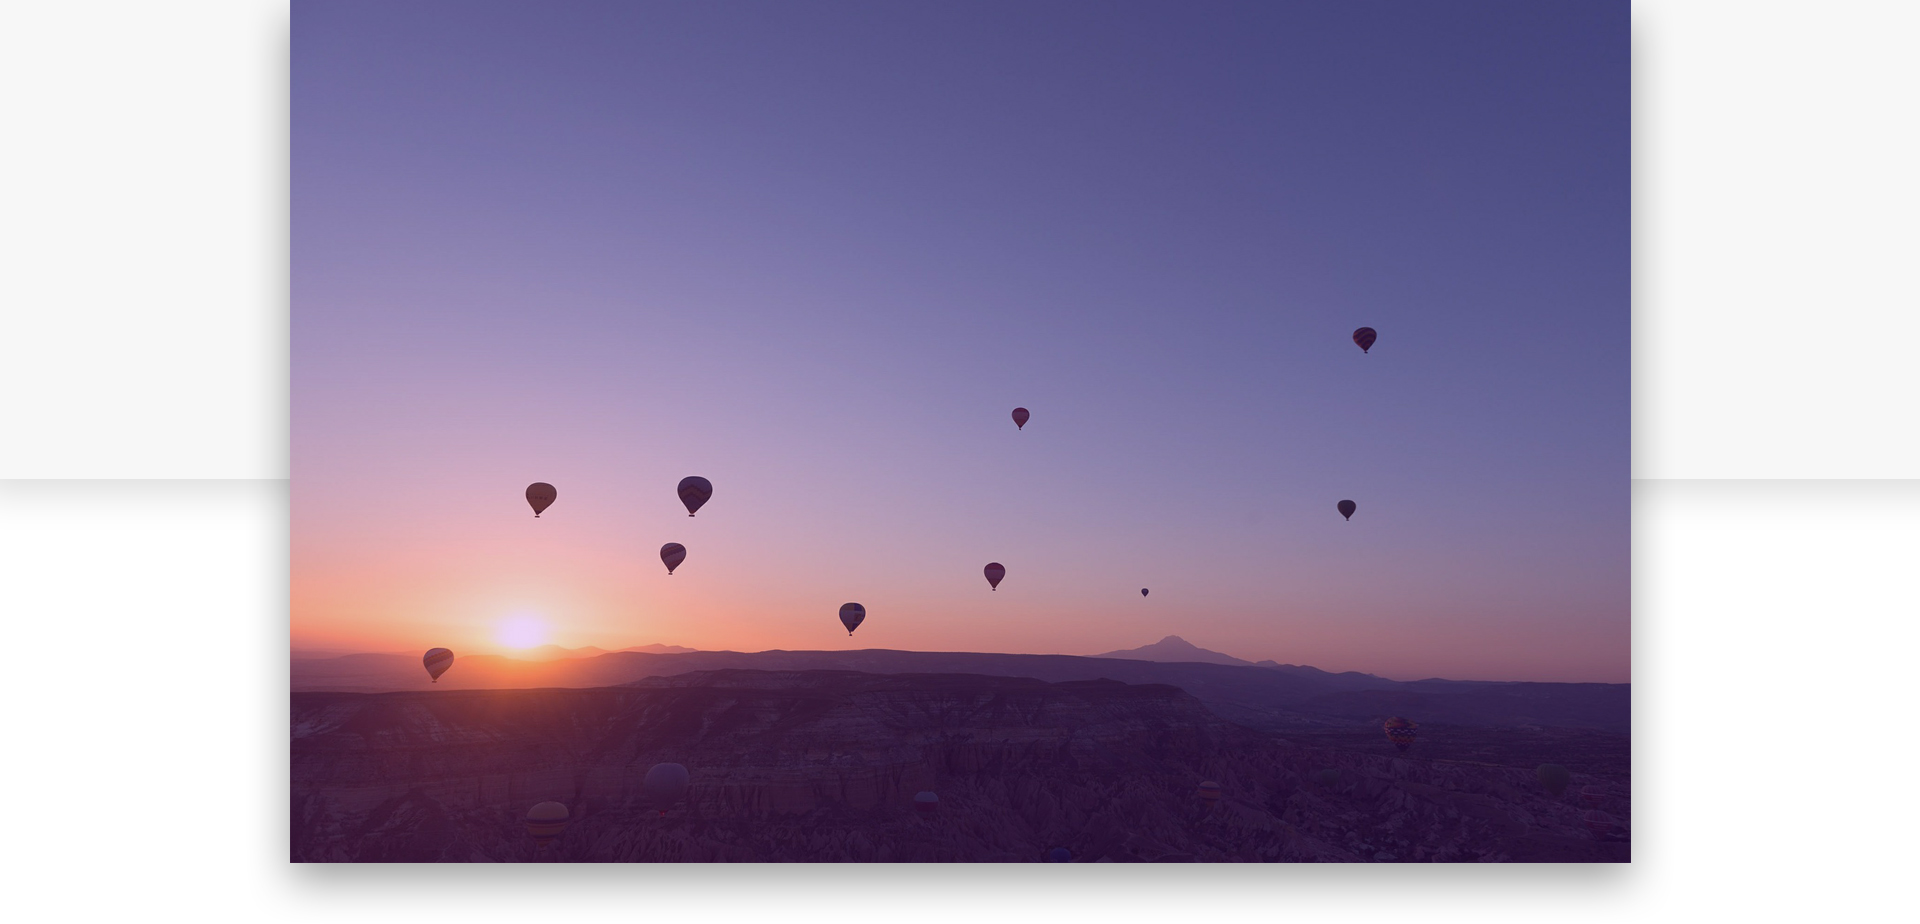
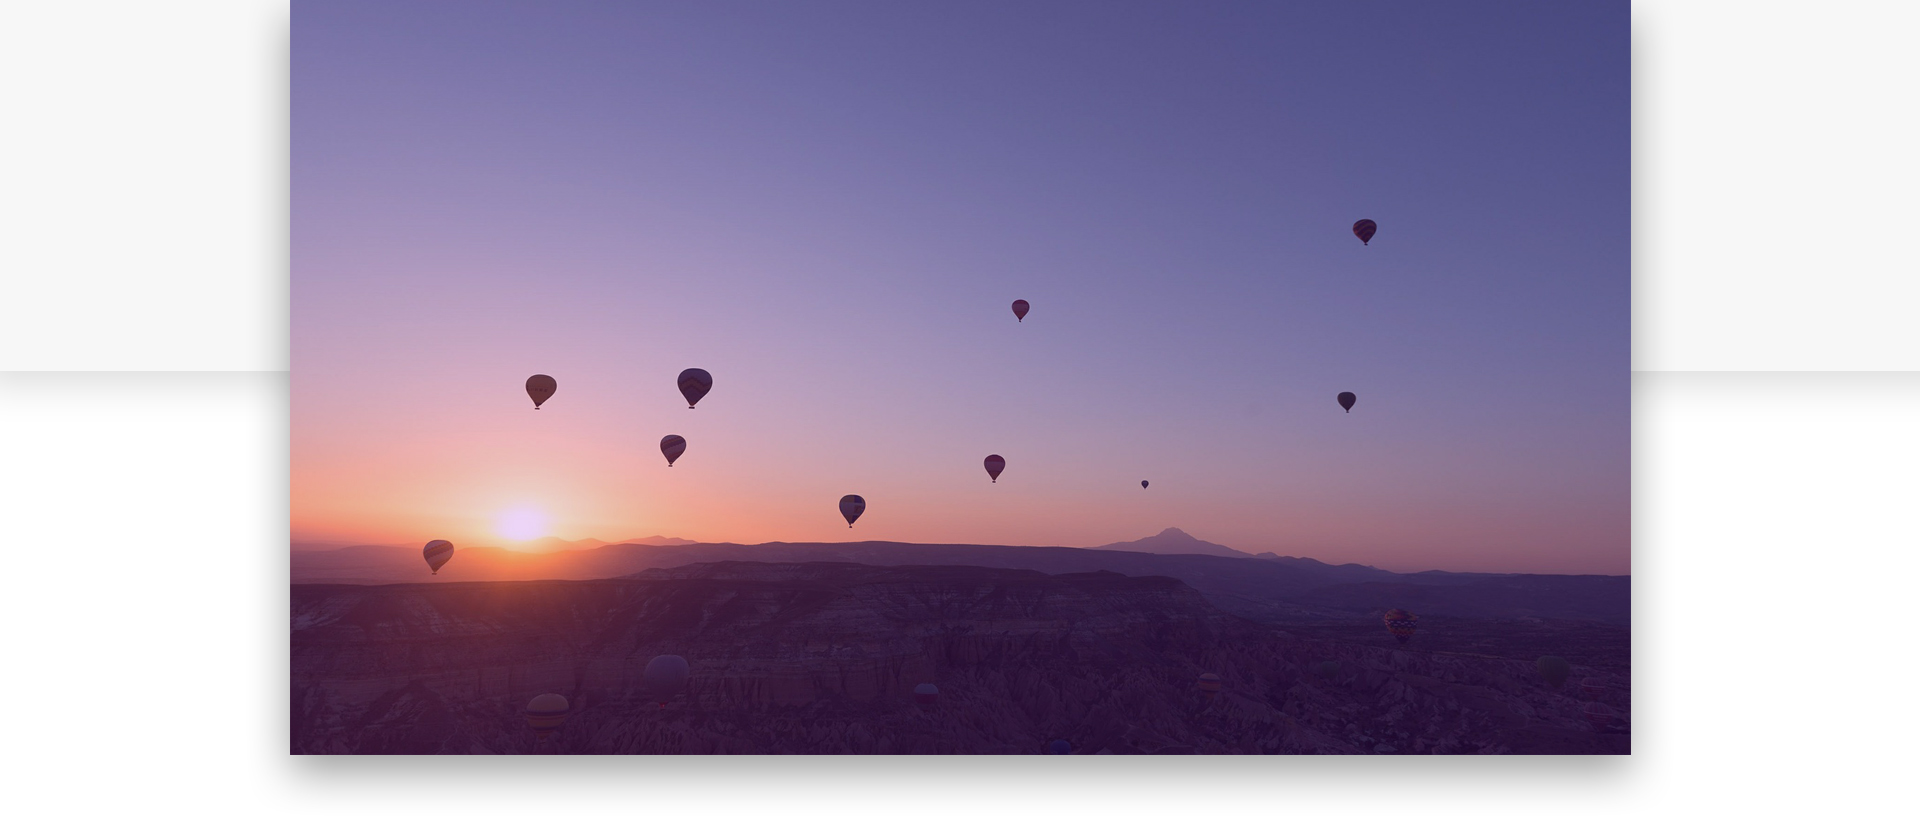
Some Changes

diff --git a/Site/app/components/LK/baners.html b/Site/app/components/LK/baners.html
@@ -21,8 +21,14 @@
                                 </div>
                             </div>
                             <div class="row">
-                                <div class="col-md-12" style="padding:2vh; margin-top: 3vh">
-                                    <span style="color: black; font-size: 2vh;">Очень важный текст Очень важный текст Очень важный текст Очень важный текст Очень важный текст Очень важный текст Очень важный текст Очень важный текст Очень важный текст Очень важный текст Очень важный текст Очень важный текст Очень важный текст Очень важный текст</span>
+                                <div class="col-md-12" style="padding: 2vh; margin-top: 3vh">
+                                    <div class="pull-left">
+                                        <img style="height: 3vh;width: 3vh" src="../../../assets/img/lp.baner/Левый уголок.png" />
+                                    </div>
+                                    <span style="color:black; font-size: 2vh;">Очень важный текст Очень важный текст Очень важный текст Очень важный текст Очень важный текст Очень важный текст Очень важный текст Очень важный текст Очень важный текст Очень важный текст Очень важный текст Очень важный текст Очень важный текст Очень важный текст</span>
+                                    <div class="pull-right">
+                                        <img style="height: 3vh;width: 3vh" src="../../../assets/img/lp.baner/Правый уголок.png" />
+                                    </div>
                                 </div>
                             </div>
                         </div>
@@ -41,8 +47,14 @@
                                 </div>
                             </div>
                             <div class="row">
-                                <div class="col-md-12" style="padding:2vh; margin-top: 3vh">
-                                    <span style="color: black; font-size: 2vh;">Очень важный текст Очень важный текст Очень важный текст Очень важный текст Очень важный текст Очень важный текст Очень важный текст Очень важный текст Очень важный текст Очень важный текст Очень важный текст Очень важный текст Очень важный текст Очень важный текст</span>
+                                <div class="col-md-12" style="padding: 2vh; margin-top: 3vh">
+                                    <div class="pull-left">
+                                        <img style="height: 3vh;width: 3vh" src="../../../assets/img/lp.baner/Левый уголок.png" />
+                                    </div>
+                                        <span style="color:black; font-size: 2vh;">Очень важный текст Очень важный текст Очень важный текст Очень важный текст Очень важный текст Очень важный текст Очень важный текст Очень важный текст Очень важный текст Очень важный текст Очень важный текст Очень важный текст Очень важный текст Очень важный текст</span>
+                                    <div class="pull-right">
+                                        <img style="height: 3vh;width: 3vh" src="../../../assets/img/lp.baner/Правый уголок.png"/>
+                                    </div>
                                 </div>
                             </div>
                         </div>
@@ -63,8 +75,14 @@
                                 </div>
                             </div>
                             <div class="row">
-                                <div class="col-md-12" style="padding:2vh; margin-top: 3vh">
-                                    <span style="color: black; font-size: 2vh;">Очень важный текст Очень важный текст Очень важный текст Очень важный текст Очень важный текст Очень важный текст Очень важный текст Очень важный текст Очень важный текст Очень важный текст Очень важный текст Очень важный текст Очень важный текст Очень важный текст</span>
+                                <div class="col-md-12" style="padding: 2vh; margin-top: 3vh">
+                                    <div class="pull-left">
+                                        <img style="height: 3vh;width: 3vh" src="../../../assets/img/lp.baner/Левый уголок.png" />
+                                    </div>
+                                    <span style="color:black; font-size: 2vh;">Очень важный текст Очень важный текст Очень важный текст Очень важный текст Очень важный текст Очень важный текст Очень важный текст Очень важный текст Очень важный текст Очень важный текст Очень важный текст Очень важный текст Очень важный текст Очень важный текст</span>
+                                    <div class="pull-right">
+                                        <img style="height: 3vh;width: 3vh" src="../../../assets/img/lp.baner/Правый уголок.png" />
+                                    </div>
                                 </div>
                             </div>
                         </div>
@@ -83,8 +101,14 @@
                                 </div>
                             </div>
                             <div class="row">
-                                <div class="col-md-12" style="padding:2vh; margin-top: 3vh">
-                                    <span style="color: black; font-size: 2vh;">Очень важный текст Очень важный текст Очень важный текст Очень важный текст Очень важный текст Очень важный текст Очень важный текст Очень важный текст Очень важный текст Очень важный текст Очень важный текст Очень важный текст Очень важный текст Очень важный текст</span>
+                                <div class="col-md-12" style="padding: 2vh; margin-top: 3vh">
+                                    <div class="pull-left">
+                                        <img style="height: 3vh;width: 3vh" src="../../../assets/img/lp.baner/Левый уголок.png" />
+                                    </div>
+                                    <span style="color:black; font-size: 2vh;">Очень важный текст Очень важный текст Очень важный текст Очень важный текст Очень важный текст Очень важный текст Очень важный текст Очень важный текст Очень важный текст Очень важный текст Очень важный текст Очень важный текст Очень важный текст Очень важный текст</span>
+                                    <div class="pull-right">
+                                        <img style="height: 3vh;width: 3vh" src="../../../assets/img/lp.baner/Правый уголок.png" />
+                                    </div>
                                 </div>
                             </div>
                         </div>

diff --git a/Site/app/components/LP/footer.html b/Site/app/components/LP/footer.html
@@ -4,19 +4,19 @@
             <div>
                 <div class="col-md-3">
                     <br/>
-                    <img src="../../../assets/img/Qiwi.png"/>
+                    <img style="height: 5.5vh;width: 13vh" src="../../../assets/img/Qiwi.png"/>
                 </div>
                 <div class="col-md-3">
                     <br />
-                    <img src="../../../assets/img/Яндекс Money.png"/>
+                    <img style="height: 5.5vh;width: 13vh" src="../../../assets/img/Яндекс Money.png"/>
                 </div>
                 <div class="col-md-3">
                     <br />
-                    <img src="../../../assets/img/Payeer .png"/>
+                    <img style="margin-top: 1vh;height: 3vh;width: 10vh" src="../../../assets/img/Payeer .png"/>
                 </div>
                 <div class="col-md-3">
                     <br />
-                    <img src="../../../assets/img/Perfect money.png"/>
+                    <img style="margin-top: 1vh;height: 3vh;width: 13vh" src="../../../assets/img/Perfect money.png"/>
                 </div>
             </div>
         </div>

diff --git a/Site/app/components/LP/marketing.html b/Site/app/components/LP/marketing.html
@@ -1,8 +1,8 @@
 <header ng-include="'app/components/LP/nav.html'"></header>
-<div ng-include="'app/components/LP/log.reg.html'" style="background-image: url('../../../assets/img/Безимени-1.jpg'); background-size: 100%; height: 93vh; margin: 0; padding: 0;">
+<div ng-include="'app/components/LP/log.reg.html'" style="background-image: url('../../../assets/img/Безимени-1.jpg'); background-size: 100%; height: 84vh; margin: 0; padding: 0;">
 </div>
 <div class="col-md-12 text-center" style="background-color: white; font-weight: lighter; padding: 2vh 30vw 2vh 30vw;">
-    <p   style="font-size: 3vh;">
+    <p   style="font-size: 4vh;">
         <u style="border-bottom: 1px solid violet; text-decoration: none;">Маркетинг</u>
     </p>
     <span class="text-center" style="color: gray; font-size: 2vh">

diff --git a/Site/app/components/LP/help.html b/Site/app/components/LP/help.html
@@ -85,7 +85,7 @@
                 </li>
             </ul>
         </div>
-        <div class="col-md-5 text-left" style="background-image: url('../../../assets/img/lp.faq/Shablon (FAQ).jpg'); background-size: 100%; height: 60vh; margin: 0; padding: 13vh 3.25vw 10vh 3vw">
+        <div class="col-md-5 text-left" style="background-image: url('../../../assets/img/lp.faq/Shablon (FAQ).jpg'); background-size: 100%; height: 63vh; margin: 0; padding: 13vh 3.25vw 10vh 3vw">
             <span class="text-left" style="color: black; font-size: 1.5vh; ">
                 <span ng-show="$parent.quest==1">
                     На начальном этапе «Часто задаваемые вопросы (FAQ)» являются отличным источником

diff --git a/Site/app/components/LP/nav.html b/Site/app/components/LP/nav.html
@@ -1,7 +1,7 @@
 <div class="row">
-    <ul class="nav navbar-nav text-uppercase" style="background-color: #4e547a; border-radius: 0">
+    <ul class="nav navbar-nav text-uppercase" style="background-color: #4e547a; border-radius: 0; height: 7vh ">
         <li role="presentation" ui-sref-active="active">
-            <a style="color:white;font-size: 2vh;" id="homeLP" ui-sref="homeLP"> Главная</a>
+            <a style="margin-top: 1.2vh;color:white;font-size: 2vh;" id="homeLP" ui-sref="homeLP"> Главная</a>
         </li>
         <li role="presentation" ui-sref-active="active">
             <a style="color: white;font-size: 2vh;"ui-sref="marketingLP"> Маркетинг</a>
